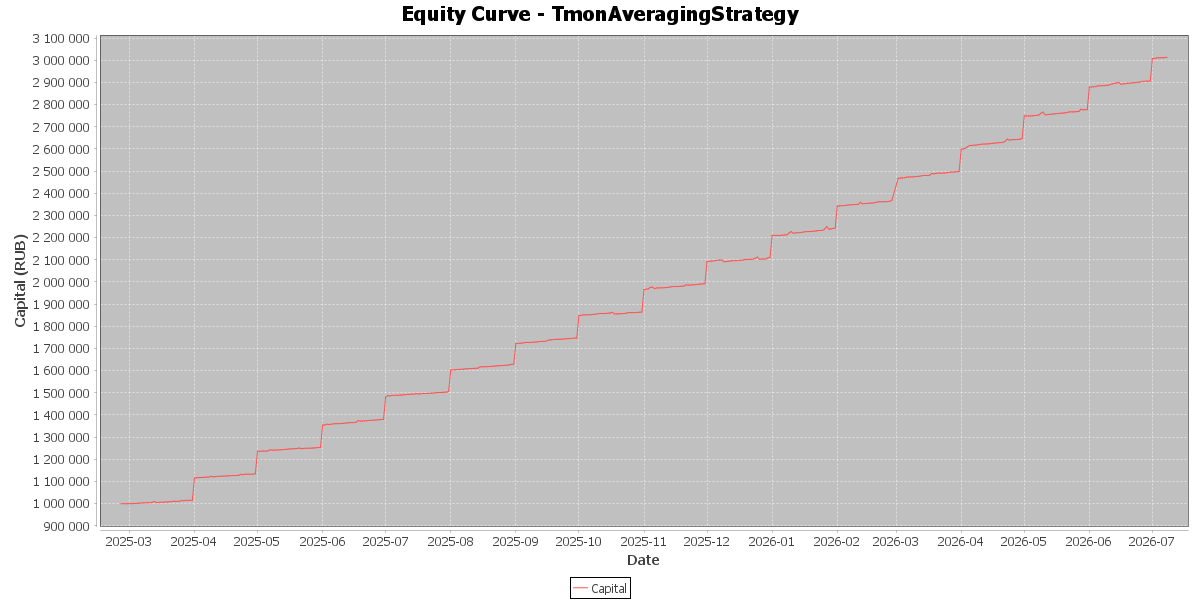
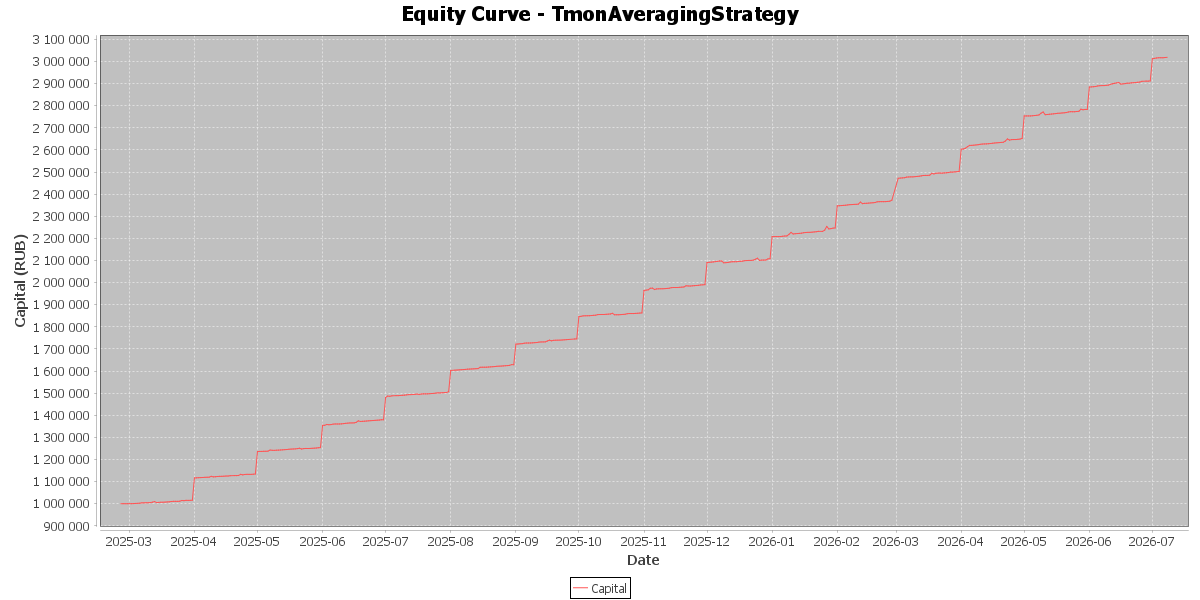
Upd Tmon funny strategy

diff --git a/src/main/java/com/github/shk0da/GoldenDragon/strategy/TmonAveragingStrategy.java b/src/main/java/com/github/shk0da/GoldenDragon/strategy/TmonAveragingStrategy.java
@@ -9,19 +9,21 @@ import com.github.shk0da.goldendragon.service.TCSService;
 import java.util.List;
 
 /**
- * TMON Averaging Strategy — aggressive dip buying.
+ * TMON Averaging Strategy with dynamic ATR-based step sizing.
  *
- * <p>Buys on ANY downward candle (close < previous close). Continues buying while price keeps
- * dropping. Exits when price recovers above average entry price.
+ * <p>Buys on ANY downward candle (close < previous close). Uses ATR to determine allocation per
+ * step: higher ATR = more aggressive buying (fewer remaining steps). Exits when price recovers
+ * above average entry price.
  *
- * <p>Key idea: TMON@ steadily appreciates (~17%/year). Every dip is a buying opportunity. Scale out
- * when profitable.
+ * <p>Key idea: TMON@ steadily appreciates (~17%/year). Every dip is a buying opportunity. ATR
+ * helps size positions proportionally to current volatility.
  */
 public class TmonAveragingStrategy extends BaseStrategy {
 
     private static final int MAX_ENTRY_STEPS = 5;
     private static final int MAX_EXIT_STEPS = 5;
     private static final double PROFIT_TARGET = 0.005;
+    private static final int ATR_PERIOD = 14;
 
     public enum Phase {
         WAITING,
@@ -37,6 +39,7 @@ public class TmonAveragingStrategy extends BaseStrategy {
     private double avgEntryPrice;
     private int entryStep;
     private int exitStep;
+    private List<Candle> lastCandles;
 
     public TmonAveragingStrategy(UnifiedTraderConfig config, TCSService tcsService) {
         this(config, tcsService, new Config(), false, 1000000.0);
@@ -90,9 +93,11 @@ public class TmonAveragingStrategy extends BaseStrategy {
             Position position,
             double balance,
             boolean incrementCandlesHeld) {
-        if (hourCandles == null || hourCandles.size() < 3) {
+        if (hourCandles == null || hourCandles.size() < ATR_PERIOD + 2) {
             return new TradingDecision("HOLD", "insufficient_history");
         }
+
+        lastCandles = hourCandles;
 
         Candle current = hourCandles.get(hourCandles.size() - 1);
         Candle previous = hourCandles.get(hourCandles.size() - 2);
@@ -170,7 +175,9 @@ public class TmonAveragingStrategy extends BaseStrategy {
     }
 
     private TradingDecision executeBuy(Candle current) {
-        double allocation = cashBalance / (double) (MAX_ENTRY_STEPS - entryStep);
+        int dynamicSteps = computeDynamicSteps(current);
+        int remainingSteps = Math.max(1, dynamicSteps - entryStep);
+        double allocation = cashBalance / (double) remainingSteps;
         int qty = Math.max(1, (int) Math.floor(allocation / current.close));
         double cost = qty * current.close;
 
@@ -186,10 +193,11 @@ public class TmonAveragingStrategy extends BaseStrategy {
         int prevQty = positionQuantity;
         cashBalance -= cost;
         positionQuantity += qty;
-        avgEntryPrice = (avgEntryPrice * prevQty + current.close * qty) / (double) positionQuantity;
+        avgEntryPrice =
+                (avgEntryPrice * prevQty + current.close * qty) / (double) positionQuantity;
         entryStep++;
 
-        logPosition("BUY", qty, current.close);
+        logPosition("BUY", qty, current.close, dynamicSteps);
         return new TradingDecision(
                 "OPEN",
                 "dip_buy",
@@ -214,7 +222,7 @@ public class TmonAveragingStrategy extends BaseStrategy {
             avgEntryPrice = 0;
         }
 
-        logPosition("SELL", qty, current.close);
+        logPosition("SELL", qty, current.close, MAX_EXIT_STEPS);
         return new TradingDecision(
                 "CLOSE",
                 "profit_take",
@@ -226,7 +234,44 @@ public class TmonAveragingStrategy extends BaseStrategy {
                 new Position("SELL", current.close, null, null, qty, 0));
     }
 
-    private void logPosition(String action, int qty, double price) {
+    /**
+     * Compute dynamic number of entry steps based on ATR. Higher ATR = fewer steps = more
+     * aggressive per-step allocation.
+     */
+    private int computeDynamicSteps(Candle current) {
+        double atr = computeAtr(current);
+        double atrRatio = atr / current.close;
+
+        if (atrRatio > 0.002) {
+            return Math.max(2, MAX_ENTRY_STEPS - 2);
+        }
+        if (atrRatio > 0.001) {
+            return Math.max(3, MAX_ENTRY_STEPS - 1);
+        }
+        return MAX_ENTRY_STEPS;
+    }
+
+    private double computeAtr(Candle current) {
+        if (lastCandles == null || lastCandles.size() < 2) {
+            return current.high - current.low;
+        }
+
+        double atr = 0.0;
+        int size = Math.min(ATR_PERIOD + 1, lastCandles.size());
+
+        for (int i = lastCandles.size() - size; i < lastCandles.size(); i++) {
+            Candle c = lastCandles.get(i);
+            double tr =
+                    Math.max(
+                            c.high - c.low,
+                            Math.max(
+                                    Math.abs(c.high - c.close), Math.abs(c.low - c.close)));
+            atr += tr;
+        }
+        return atr / (double) (size - 1);
+    }
+
+    private void logPosition(String action, int qty, double price, int dynamicSteps) {
         log(
                 getStrategyName()
                         + " "
@@ -240,6 +285,8 @@ public class TmonAveragingStrategy extends BaseStrategy {
                         + ", cash="
                         + String.format("%.2f", cashBalance)
                         + ", pos="
-                        + positionQuantity);
+                        + positionQuantity
+                        + ", steps="
+                        + dynamicSteps);
     }
 }